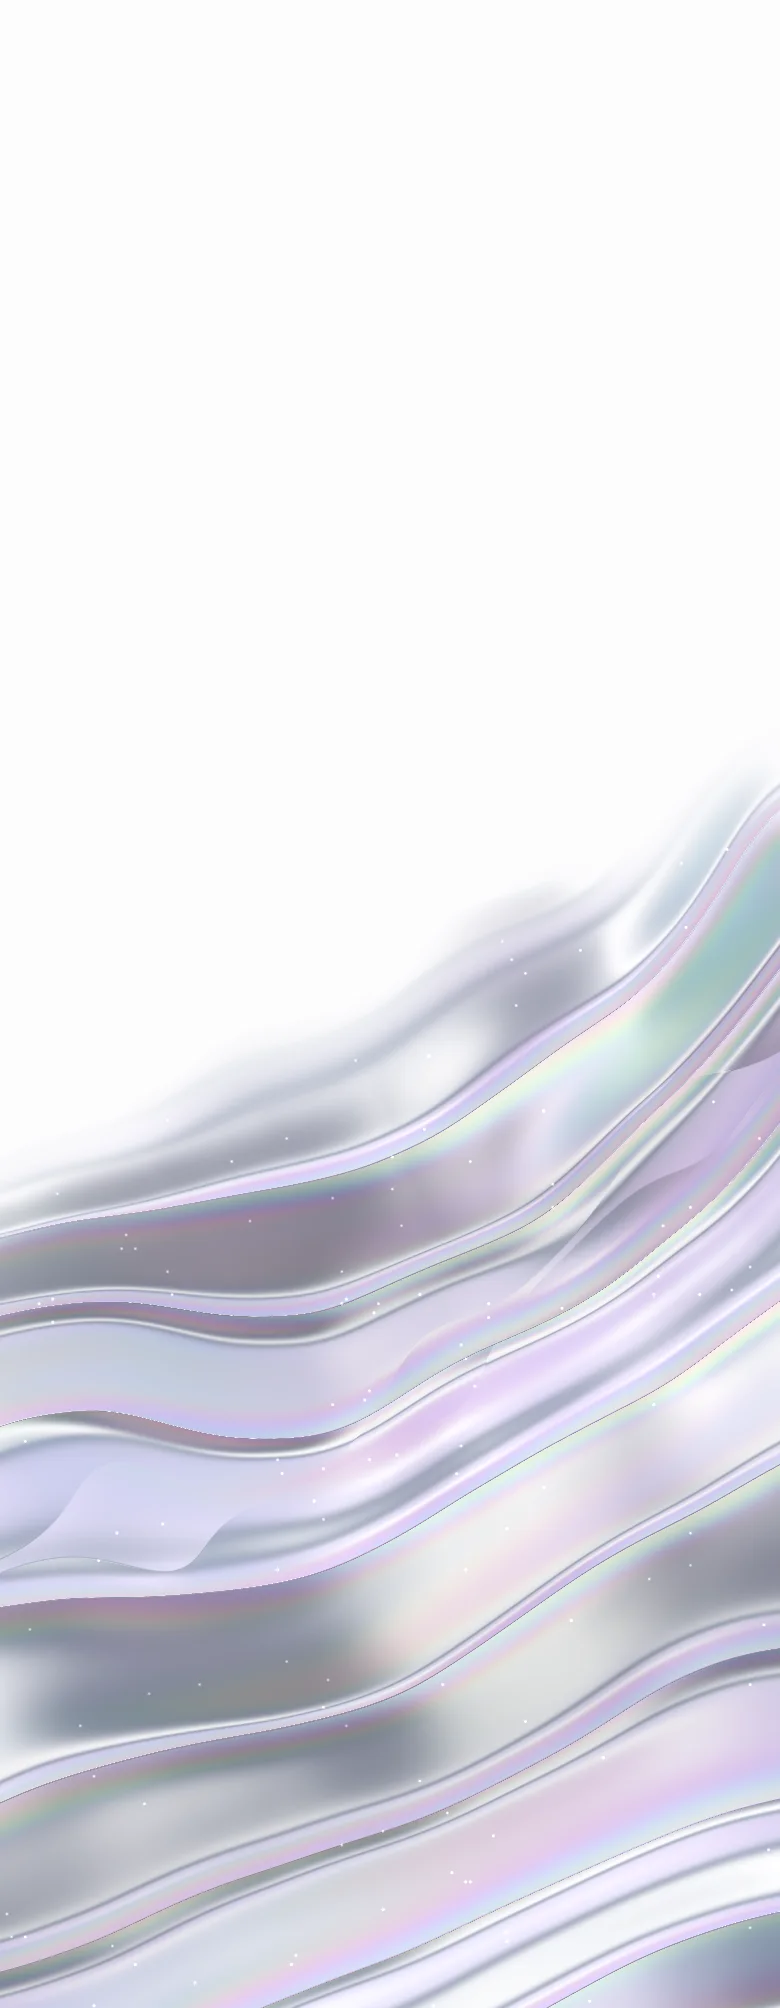
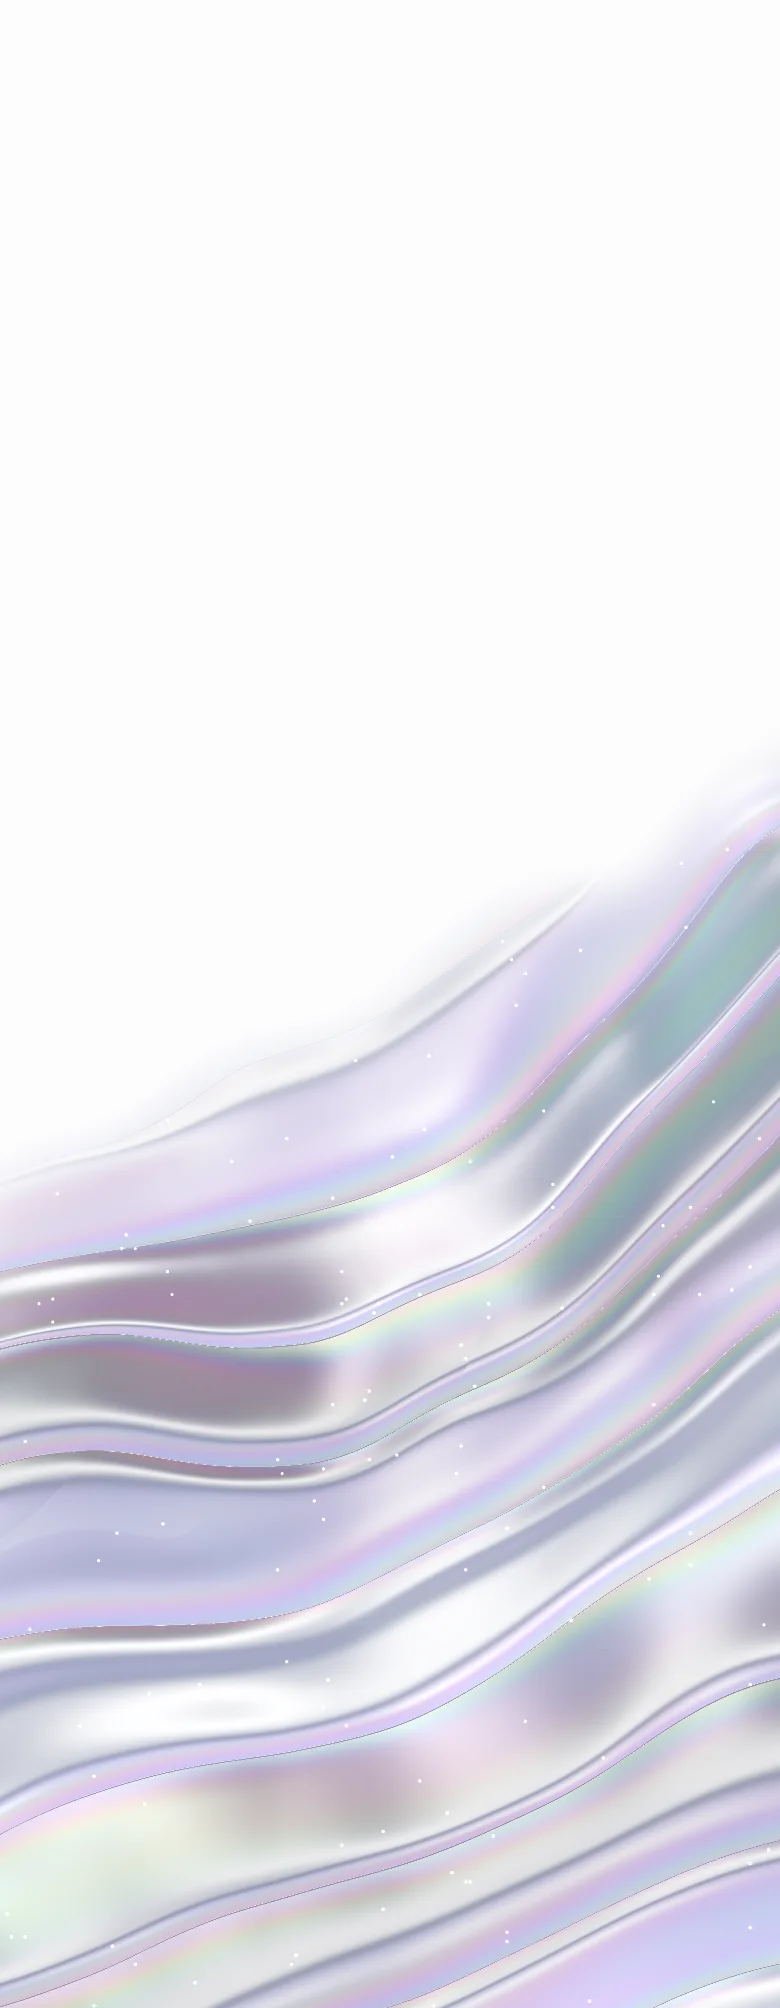
Hero glass: visible flowing motion (folds travel, reflections sweep, colour drifts)

diff --git a/apps/web/src/components/marketing/hero-glass-live.tsx b/apps/web/src/components/marketing/hero-glass-live.tsx
@@ -91,18 +91,18 @@ float sdCurve7(vec2 p) {
 
 // Height of the glass; q is in canvas units, y down.
 float height(vec2 q, float t) {
-  vec2 w = q + (vec2(vnoise(q * 1.3 + vec2(1.7, 9.2) + t * 0.010), vnoise(q * 1.3 + vec2(8.3, 2.8) - t * 0.008)) - 0.5) * 0.46
+  vec2 w = q + (vec2(vnoise(q * 1.3 + vec2(1.7, 9.2) + t * 0.060), vnoise(q * 1.3 + vec2(8.3, 2.8) - t * 0.050)) - 0.5) * 0.46
              + (vec2(vnoise(q * 4.3 + vec2(4.1, 1.3)), vnoise(q * 4.3 + vec2(7.7, 5.5))) - 0.5) * 0.05;
   float d1 = sdCurve9(w), d2 = sdCurve7(w);
-  float ph = vnoise(w * 1.7 + 3.0) * 2.2;
+  float ph = vnoise(w * 1.7 + 3.0 + vec2(t * 0.045, -t * 0.03)) * 2.2;
   float h = 0.0;
   // broad folds that follow the boundary
-  h += 0.85 * sin(d1 * 11.0 + ph + t * 0.04);
+  h += 0.85 * sin(d1 * 11.0 + ph - t * 0.55);
   // creases: narrow, pinched ridges
-  float c = 1.0 - abs(sin(d1 * 21.0 + ph * 1.6 + 1.3));
+  float c = 1.0 - abs(sin(d1 * 21.0 + ph * 1.6 + 1.3 - t * 0.32));
   h += 0.42 * c * c * c * (0.3 + vnoise(w * 2.4 + 9.0));
   // a crossing family
-  h += 0.55 * sin(d2 * 9.5 + ph * 0.7 + 2.0 - t * 0.03) * (0.2 + vnoise(w * 1.8 + 5.0));
+  h += 0.55 * sin(d2 * 9.5 + ph * 0.7 + 2.0 - t * 0.45) * (0.2 + vnoise(w * 1.8 + 5.0));
   h += 0.05 * sin(d1 * 33.0 + d2 * 14.0 + ph * 2.0);
   return h * 0.03;
 }
@@ -115,8 +115,8 @@ vec3 film(float t) {
 vec3 env(vec2 r) {
   float g = smoothstep(-1.1, 1.0, r.y * 0.8 + r.x * 0.4);
   vec3 c = mix(vec3(0.30, 0.33, 0.42), vec3(0.88, 0.89, 0.94), g);
-  float bandA = exp(-pow((r.x * 0.9 + r.y * 0.5 - 0.10) * 4.2, 2.0));
-  float bandB = exp(-pow((r.x * 0.5 - r.y * 0.9 + 0.30) * 4.5, 2.0));
+  float bandA = exp(-pow((r.x * 0.9 + r.y * 0.5 - 0.10 + 0.22 * sin(uTime * 0.35)) * 4.2, 2.0));
+  float bandB = exp(-pow((r.x * 0.5 - r.y * 0.9 + 0.30 + 0.2 * cos(uTime * 0.27)) * 4.5, 2.0));
   c = mix(c, vec3(1.0), bandA * 0.95);
   c = mix(c, vec3(0.34, 0.40, 0.52), bandB * 0.55);
   c = mix(c, vec3(1.0, 0.74, 0.90), smoothstep(0.05, 0.6, -r.x - r.y * 0.4) * 0.36);
@@ -137,18 +137,18 @@ void main() {
   vec3 N = normalize(vec3(-g * 2.9, 1.0));
 
   float ndv = N.z;
-  vec2 r = N.xy * 2.0 * ndv + uLook * 0.1;
+  vec2 r = N.xy * 2.0 * ndv + uLook * 0.22;
   vec3 col = env(r);
 
   float graze = 1.0 - ndv;
-  float hue = graze * 1.4 + h0 * 2.5 + dot(q, vec2(0.9, -0.5)) * 0.8 + t * 0.004;
+  float hue = graze * 1.4 + h0 * 2.5 + dot(q, vec2(0.9, -0.5)) * 0.8 + t * 0.05;
   col = mix(col, film(hue), smoothstep(0.0, 0.3, graze) * 0.22);
   vec3 Hh = normalize(vec3(-0.3, 0.5, 1.0));
   col = mix(col, vec3(1.0), pow(max(dot(N, Hh), 0.0), 140.0) * 0.8);
   col *= mix(0.90, 1.03, smoothstep(-0.035, 0.03, h0));
 
   // Silhouette: the glass lies beyond the boundary curve, with soft, uneven edges.
-  float dd = sdCurve9(q + (vec2(vnoise(q * 3.0 + 2.0), vnoise(q * 3.0 + 7.0)) - 0.5) * 0.05);
+  float dd = sdCurve9(q + (vec2(vnoise(q * 3.0 + 2.0 + vec2(t * 0.07, 0.0)), vnoise(q * 3.0 + 7.0 - vec2(0.0, t * 0.05))) - 0.5) * 0.05);
   float m = smoothstep(0.0, 0.09, dd);
   // The far right, below the upper sheet, falls back to white.
   float notch = smoothstep(0.86, 0.95, frag.x) * smoothstep(0.40, 0.55, 1.0 - frag.y);
@@ -161,7 +161,7 @@ void main() {
   // Sparkle.
   vec2 sp = frag * uSize * 200.0;
   float hs = hash(floor(sp));
-  float spark = step(0.9965, hs) * smoothstep(0.5, 0.0, length(fract(sp) - 0.5)) * (0.6 + 0.4 * sin(t * 0.8 + hs * 60.0));
+  float spark = step(0.9965, hs) * smoothstep(0.5, 0.0, length(fract(sp) - 0.5)) * (0.6 + 0.4 * sin(t * 1.8 + hs * 60.0));
   col += spark * 0.8 * m;
 
   col = mix(vec3(0.988, 0.988, 0.992), col, m);
